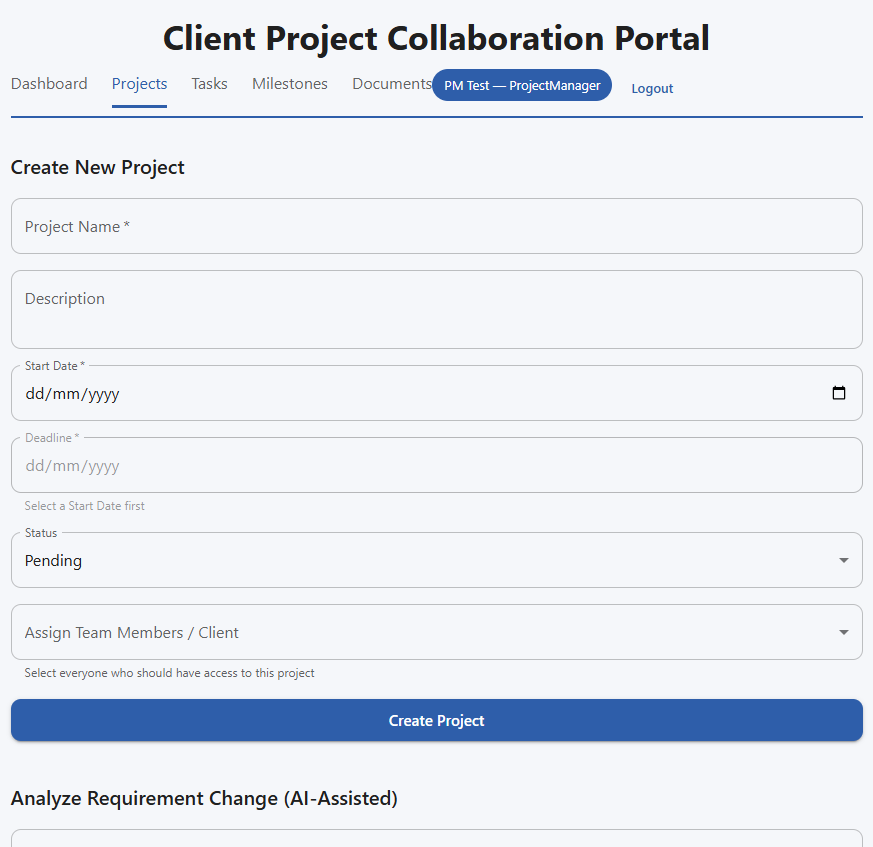
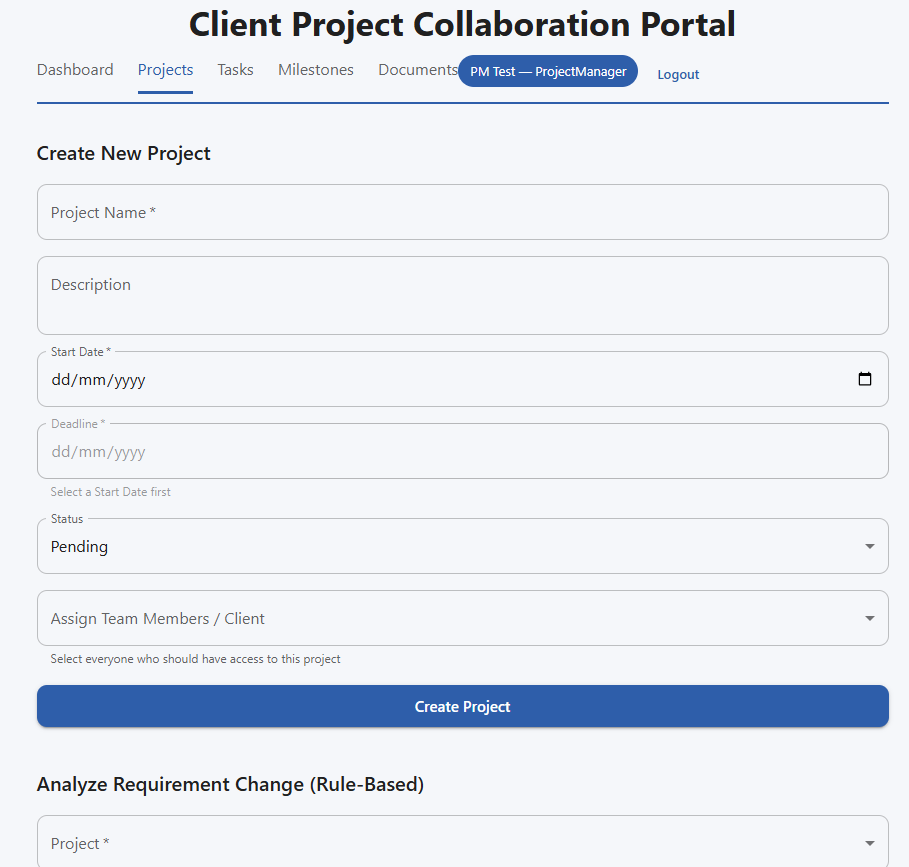
Rename impact analysis heading to Rule-Based and update screenshot

diff --git a/frontend/src/pages/ProjectsPage.jsx b/frontend/src/pages/ProjectsPage.jsx
@@ -429,7 +429,7 @@ function ProjectsPage({ currentUser }) {
 
           {/* ---------- REQUIREMENT CHANGE IMPACT ANALYSIS FORM ---------- */}
           <Typography variant="h6" sx={{ mt: 5, mb: 2 }}>
-            Analyze Requirement Change (AI-Assisted)
+            Analyze Requirement Change (Rule-Based)
           </Typography>
 
           <Box component="form" onSubmit={handleAnalyzeImpact}>
